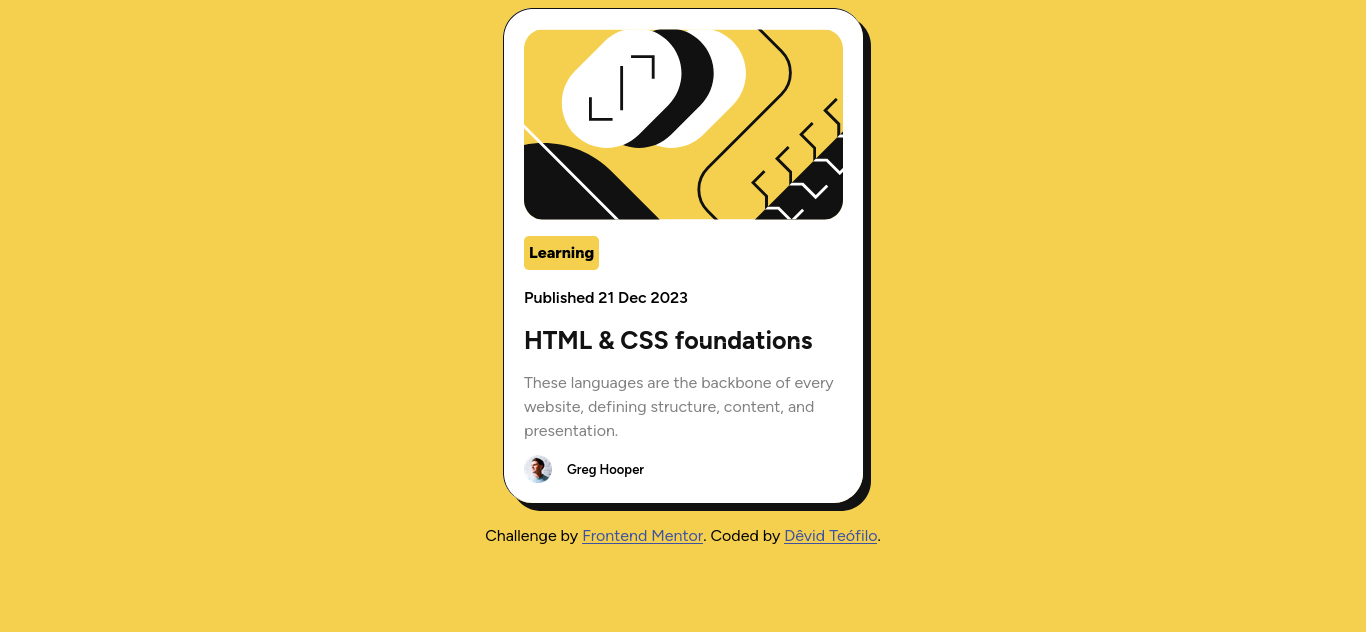
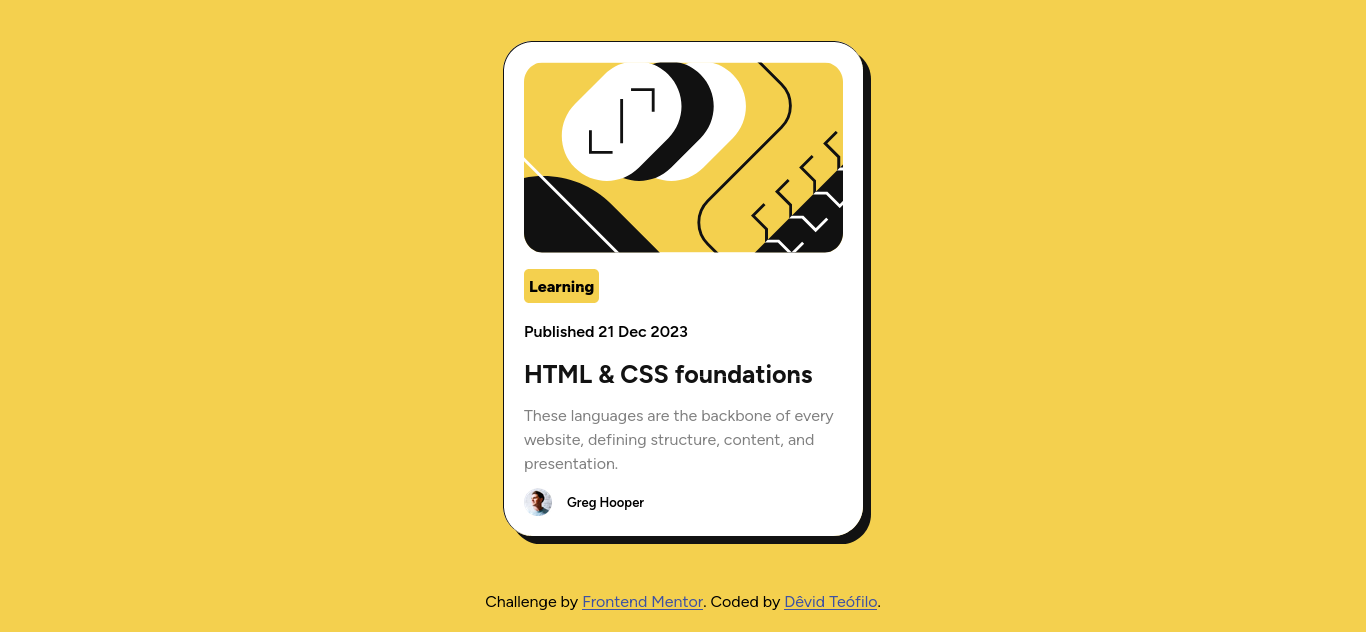
Centralized the blog preview card

Changed region(s): [[0.369, 0.0, 0.6457, 0.481], [0.369, 0.5111, 0.6457, 0.8718], [0.3382, 0.932, 0.6457, 0.962]]

diff --git a/frontendmentor/blog-preview-card-main/index.html b/frontendmentor/blog-preview-card-main/index.html
@@ -1,45 +1,65 @@
 <!DOCTYPE html>
 <html lang="en">
-<head>
-  <meta charset="UTF-8">
-  <meta name="viewport" content="width=device-width, initial-scale=1.0">
+  <head>
+    <meta charset="UTF-8" />
+    <meta name="viewport" content="width=device-width, initial-scale=1.0" />
 
-  <link rel="icon" type="image/png" sizes="32x32" href="./assets/images/favicon-32x32.png">
-  <link rel="stylesheet" href="reset.css">
-  <link rel="stylesheet" href="style.css">
-  
-  <title>Frontend Mentor | Blog preview card</title>
-</head>
-<body>
+    <link
+      rel="icon"
+      type="image/png"
+      sizes="32x32"
+      href="./assets/images/favicon-32x32.png"
+    />
+    <link rel="stylesheet" href="reset.css" />
+    <link rel="stylesheet" href="style.css" />
 
-  <main class="container">
-    <div class="card">
-      <img class="card-image" src="assets/images/illustration-article.svg" alt="A random example image">
-      <p class="tag">
-        Learning
-      </p>
-      <p class="date">
-        Published 21 Dec 2023
-      </p>
+    <title>Frontend Mentor | Blog preview card</title>
+  </head>
+  <body>
+    <main class="container">
+      <div class="card">
+        <img
+          class="card-image"
+          src="assets/images/illustration-article.svg"
+          alt="A random example image"
+        />
+        <p class="tag">Learning</p>
+        <p class="date">Published 21 Dec 2023</p>
 
-      <h1 class="primary-title">
-        <a href="#" class="link-title">HTML & CSS foundations</a>
-      </h1>
+        <h1 class="primary-title">
+          <a href="#" class="link-title">HTML & CSS foundations</a>
+        </h1>
 
-      <p class="description-text">
-        These languages are the backbone of every website, defining structure, content, and presentation.
-      </p>
+        <p class="description-text">
+          These languages are the backbone of every website, defining structure,
+          content, and presentation.
+        </p>
 
-      <p class="author">
-        <img class="author-image" src="assets/images/image-avatar.webp" alt="Greg Hooper Avatar image">
-        Greg Hooper
-      </p>
-    </div>
-  </main>
-  
-  <footer class="attribution">
-    Challenge by <a href="https://www.frontendmentor.io?ref=challenge" target="_blank" rel="noreferrer noopener">Frontend Mentor</a>. 
-    Coded by <a href="https://devid8642.github.io" target="_blank" rel="noreferrer noopener">Dêvid Teófilo</a>.
-  </footer>
-</body>
+        <p class="author">
+          <img
+            class="author-image"
+            src="assets/images/image-avatar.webp"
+            alt="Greg Hooper Avatar image"
+          />
+          Greg Hooper
+        </p>
+      </div>
+    </main>
+
+    <footer class="attribution">
+      Challenge by
+      <a
+        href="https://www.frontendmentor.io?ref=challenge"
+        target="_blank"
+        rel="noreferrer noopener"
+        >Frontend Mentor</a
+      >. Coded by
+      <a
+        href="https://devid8642.github.io"
+        target="_blank"
+        rel="noreferrer noopener"
+        >Dêvid Teófilo</a
+      >.
+    </footer>
+  </body>
 </html>

diff --git a/frontendmentor/blog-preview-card-main/style.css b/frontendmentor/blog-preview-card-main/style.css
@@ -1,92 +1,96 @@
 @font-face {
-    font-family: 'Figtree';
-    src: url(assets/fonts/Figtree-VariableFont_wght.ttf);
+  font-family: "Figtree";
+  src: url(assets/fonts/Figtree-VariableFont_wght.ttf);
 }
 
 @font-face {
-    font-family: 'Figtree Italic';
-    src: url(assets/fonts/Figtree-Italic-VariableFont_wght.ttf);
+  font-family: "Figtree Italic";
+  src: url(assets/fonts/Figtree-Italic-VariableFont_wght.ttf);
 }
 
 :root {
-    --yellow: hsl(47, 88%, 63%);
-    --white: hsl(0, 0%, 100%);
-    --grey: hsl(0, 0%, 50%);
-    --black: hsl(0, 0%, 7%);
+  --yellow: hsl(47, 88%, 63%);
+  --white: hsl(0, 0%, 100%);
+  --grey: hsl(0, 0%, 50%);
+  --black: hsl(0, 0%, 7%);
 }
 
 body {
-    background-color: var(--yellow);
-    font-size: 1.6rem;
-    font-family: 'Figtree';
+  background-color: var(--yellow);
+  font-size: 1.6rem;
+  font-family: "Figtree";
 }
 
 .container {
-    display: flex;
-    align-items: center;
-    justify-content: center;
+  display: flex;
+  align-items: center;
+  justify-content: center;
+  min-height: 90vh;
 }
 
 .card {
-    background-color: var(--white);
-    width: 360px;
-    padding: 2rem;
-    border-radius: 3rem;
-    border-top: 1px solid var(--black);
-    border-left: 1px solid var(--black);
-    box-shadow: 8px 8px var(--black);
+  background-color: var(--white);
+  width: 360px;
+  padding: 2rem;
+  border-radius: 3rem;
+  border-top: 1px solid var(--black);
+  border-left: 1px solid var(--black);
+  box-shadow: 8px 8px var(--black);
 }
 
 .card-image {
-    border-radius: 2rem;
+  border-radius: 2rem;
 }
 
 .tag {
-    background-color: var(--yellow);
-    font-weight: 800;
-    padding: .5rem;
-    border-radius: .5rem;
-    width: max-content;
+  background-color: var(--yellow);
+  font-weight: 800;
+  padding: 0.5rem;
+  border-radius: 0.5rem;
+  width: max-content;
 }
 
 .date {
-    font-weight: 600;
+  font-weight: 600;
 }
 
 .primary-title {
-    font-size: 2.5rem;
+  font-size: 2.5rem;
 }
 
-.link-title:link, .link-title:visited {
-    text-decoration: none;
-    color: var(--black);
+.link-title:link,
+.link-title:visited {
+  text-decoration: none;
+  color: var(--black);
 }
 
-.link-title:hover, .link-title:active {
-    color: var(--yellow);
+.link-title:hover,
+.link-title:active {
+  color: var(--yellow);
 }
 
 .description-text {
-    color: var(--grey);
+  color: var(--grey);
 }
 
 .author {
-    font-weight: 600;
-    font-size: 1.3rem;
-    display: flex;
-    align-items: center;
-    gap: 1.5rem;
+  font-weight: 600;
+  font-size: 1.3rem;
+  display: flex;
+  align-items: center;
+  gap: 1.5rem;
 }
 
 .author-image {
-    width: 28px;
-    height: 28px;
+  width: 28px;
+  height: 28px;
 }
 
-
-.attribution { 
-    text-align: center;
-    margin-top: 2rem;
+.attribution {
+  text-align: center;
+  margin-top: 2rem;
 }
 
-.attribution a { color: hsl(228, 45%, 44%); }
+.attribution a {
+  color: hsl(228, 45%, 44%);
+}

diff --git a/frontendmentor/blog-preview-card-main/reset.css b/frontendmentor/blog-preview-card-main/reset.css
@@ -2,72 +2,89 @@
 *,
 *::before,
 *::after {
-    box-sizing: border-box;
+  box-sizing: border-box;
 }
 
 /* Prevent font size inflation and for responsive font size */
 html {
-    -moz-text-size-adjust: none;
-    -webkit-text-size-adjust: none;
-    text-size-adjust: none;
-    font-size: 62.5%;
+  -moz-text-size-adjust: none;
+  -webkit-text-size-adjust: none;
+  text-size-adjust: none;
+  font-size: 62.5%;
 }
 
 /* Remove default margin in favour of better control in authored CSS */
-body, h1, h2, h3, h4, p,
-figure, blockquote, dl, dd {
-    margin-block-end: 0;
+body,
+h1,
+h2,
+h3,
+h4,
+p,
+figure,
+blockquote,
+dl,
+dd {
+  margin-block-end: 0;
 }
 
 /* Remove list styles on ul, ol elements with a list role, which suggests default styling will be removed */
-ul[role='list'],
-ol[role='list'] {
-    list-style: none;
+ul[role="list"],
+ol[role="list"] {
+  list-style: none;
 }
 
 /* Set core body defaults */
 body {
-    min-height: 100vh;
-    line-height: 1.5;
+  min-height: 100vh;
+  line-height: 1.5;
 }
 
 /* Set shorter line heights on headings and interactive elements */
-h1, h2, h3, h4,
-button, input, label {
-    line-height: 1.1;
+h1,
+h2,
+h3,
+h4,
+button,
+input,
+label {
+  line-height: 1.1;
 }
 
 /* Balance text wrapping on headings */
-h1, h2,
-h3, h4 {
-    text-wrap: balance;
+h1,
+h2,
+h3,
+h4 {
+  text-wrap: balance;
 }
 
 /* A elements that don't have a class get default styles */
 a:not([class]) {
-    text-decoration-skip-ink: auto;
-    color: currentColor;
+  text-decoration-skip-ink: auto;
+  color: currentColor;
 }
 
 /* Make images easier to work with */
 img,
 picture {
-    max-width: 100%;
-    display: block;
+  max-width: 100%;
+  display: block;
 }
 
 /* Inherit fonts for inputs and buttons */
-input, button,
-textarea, select {
-    font: inherit;
+input,
+button,
+textarea,
+select {
+  font: inherit;
 }
 
 /* Make sure textareas without a rows attribute are not tiny */
 textarea:not([rows]) {
-    min-height: 10em;
+  min-height: 10em;
 }
 
 /* Anything that has been anchored to should have extra scroll margin */
 :target {
-    scroll-margin-block: 5ex;
+  scroll-margin-block: 5ex;
 }
